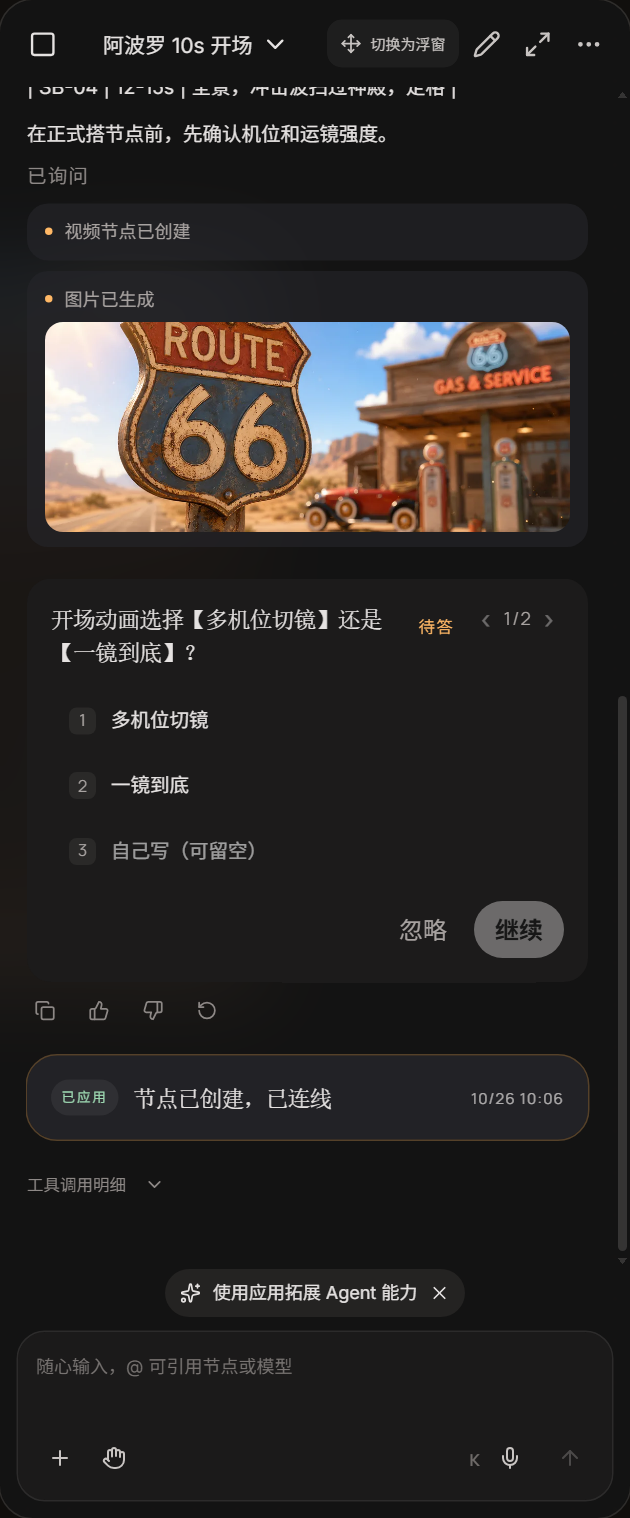
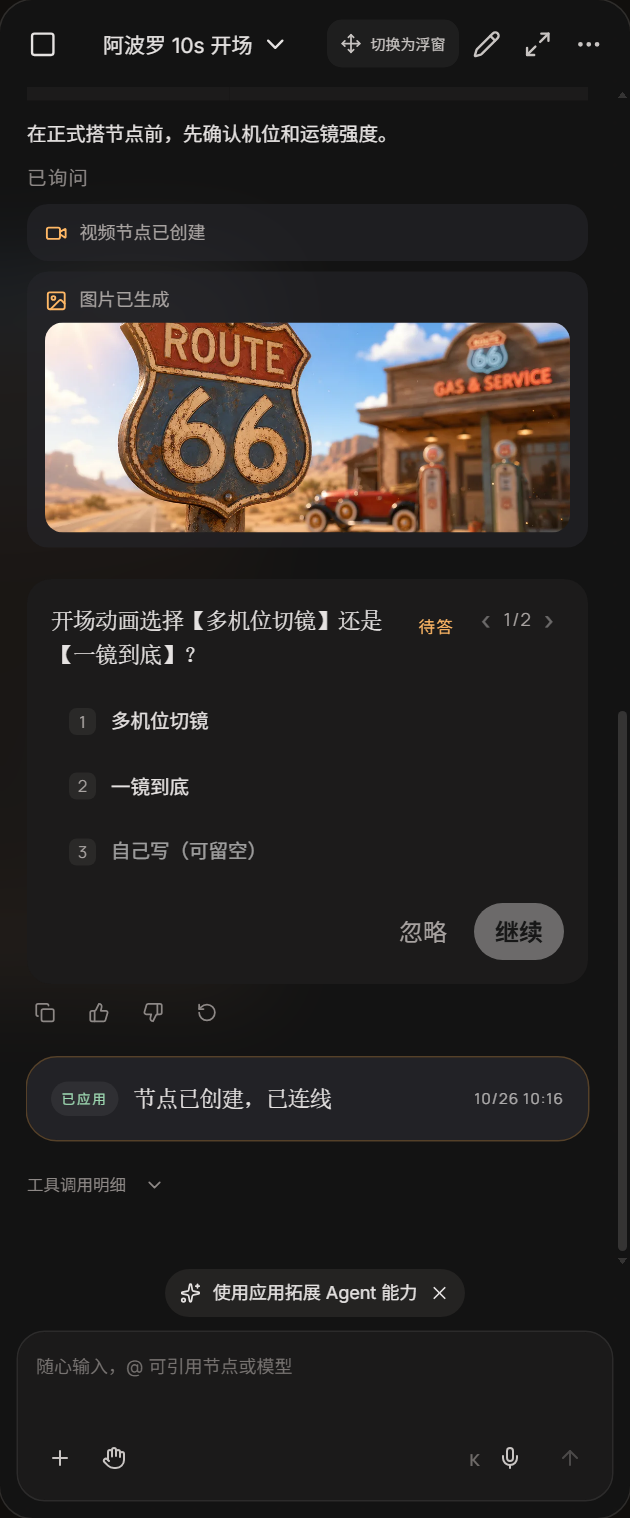
feat(canvas-agent): 参考图小卡、状态行图标与窄屏间距
- 用户消息里的参考图改成横向小卡：缩略图 + 名称（没有标题时显示「参考图 N」），不再是一行带 id 的文字
- 节点状态行加类型图标（图片/视频/文本），替换原来的小圆点
- 补窄屏断点：面板贴边、气泡放宽、缩略图压到 120px
- 提问卡按钮保持「继续」，不改

diff --git a/src/features/canvas-agent/ui/AgentFloatingPanel.tsx b/src/features/canvas-agent/ui/AgentFloatingPanel.tsx
@@ -490,35 +490,48 @@ function UserMessageBody({ content }: { content: string }) {
     mentionModelCandidates(snapshot.availableModels).map((item) => [item.id, item.label]),
   );
   const pieces = historyPieces(content);
-  if (!pieces.some((piece) => piece.type !== 'text')) return <>{content}</>;
+  const nodePieces = pieces.filter((piece) => piece.type === 'node');
+  if (!nodePieces.length) return <>{content}</>;
+  const inlinePieces = pieces.filter((piece) => piece.type !== 'node');
+  const refLabel = (piece: { id: string }, index: number) => {
+    const node = nodes.get(piece.id);
+    if (!node) return piece.id;
+    const attr = node as unknown as { title?: unknown; name?: unknown };
+    const named = String(attr.title || attr.name || '').trim();
+    if (named) return named.slice(0, 32);
+    if (node.type === 'image') return `参考图 ${index + 1}`;
+    if (node.type === 'video') return `视频 ${index + 1}`;
+    return `节点 ${index + 1}`;
+  };
   return (
-    <>
-      {pieces.map((piece, index) => {
-        if (piece.type === 'text') return <span key={index}>{piece.text}</span>;
-        const named = piece.type === 'node' && nodes.has(piece.id) ? mentionLook(nodes.get(piece.id)!) : null;
-        const label = named?.label
-          || (piece.type === 'model' ? (models.get(piece.id) || piece.id) : piece.id);
-        const src = named?.media === 'image' ? (named.thumb || named.preview || '') : '';
-        return (
-          <span key={index} className="canvas-agent-skill-chip canvas-agent-mention-pill">
-            {src ? (
-              <img
-                className="canvas-agent-mention-pill-thumb"
-                alt=""
-                src={src}
-                onError={(event) => {
-                  const image = event.currentTarget;
-                  if (image.dataset.fallback || !named?.preview) return;
-                  image.dataset.fallback = '1';
-                  image.src = named.preview;
-                }}
-              />
-            ) : null}
-            <span className="canvas-agent-mention-pill-label">{label}</span>
-          </span>
-        );
-      })}
-    </>
+    <span className="canvas-agent-user-body">
+      <span className="canvas-agent-user-refs">
+        {nodePieces.map((piece, index) => {
+          const node = nodes.get(piece.id);
+          const named = node ? mentionLook(node) : null;
+          const src = named?.media === 'image' ? (named.thumb || named.preview || '') : '';
+          return (
+            <span className="canvas-agent-user-ref" key={`${piece.id}-${index}`}>
+              {src ? <img className="canvas-agent-user-ref-thumb" src={src} alt="" /> : null}
+              <span className="canvas-agent-user-ref-label">{refLabel(piece, index)}</span>
+            </span>
+          );
+        })}
+      </span>
+      <span className="canvas-agent-user-text">
+        {inlinePieces.map((piece, index) => (
+          piece.type === 'text' ? (
+            <span key={index}>{piece.text}</span>
+          ) : (
+            <span key={index} className="canvas-agent-skill-chip canvas-agent-mention-pill">
+              <span className="canvas-agent-mention-pill-label">
+                {models.get(piece.id) || piece.id}
+              </span>
+            </span>
+          )
+        ))}
+      </span>
+    </span>
   );
 }
 

diff --git a/src/features/canvas-agent/ui/TurnLabels.tsx b/src/features/canvas-agent/ui/TurnLabels.tsx
@@ -1,4 +1,5 @@
 import { useEffect, useState, type ReactNode } from 'react';
+import { FileText, Image as ImageIcon, Video } from 'lucide-react';
 import { getCanvasSnapshot } from '../core/canvasFacade';
 import {
   isSavedTextNode,
@@ -18,19 +19,32 @@ export function ThinkingFold({ text, children }: { text: string; children: React
   );
 }
 
+type MediaKind = 'image' | 'video' | 'text';
+
+function MediaKindIcon({ kind }: { kind: MediaKind }) {
+  if (kind === 'video') return <Video aria-hidden="true" />;
+  if (kind === 'text') return <FileText aria-hidden="true" />;
+  return <ImageIcon aria-hidden="true" />;
+}
+
 export function MediaLabelView({
   label,
   preview,
   error,
+  kind = 'image',
 }: {
   label: string;
   preview?: string;
   error?: string;
+  kind?: MediaKind;
 }) {
   const video = Boolean(preview && /\.(mp4|webm|mov|m4v)(\?|$)/i.test(preview));
   return (
     <div className="canvas-agent-turn-label" data-collapsed="false">
-      <p>{label}</p>
+      <p>
+        <span className="canvas-agent-turn-icon"><MediaKindIcon kind={kind} /></span>
+        {label}
+      </p>
       {preview && video ? <video className="canvas-agent-turn-thumb" src={preview} muted /> : null}
       {preview && !video ? <img className="canvas-agent-turn-thumb" src={preview} alt="" /> : null}
       {error ? <p className="canvas-agent-turn-error">{error}</p> : null}
@@ -59,7 +73,7 @@ export function EffectLabels({ nodes }: { nodes: EffectedNode[] }) {
     <>
       {nodes.map((item) => {
         if (isSavedTextNode(item.nodeType)) {
-          return <MediaLabelView key={item.id} label="创作文本已保存" />;
+          return <MediaLabelView key={item.id} label="创作文本已保存" kind="text" />;
         }
         const node = snapshot.nodes.find((entry) => entry.id === item.id);
         const state = mediaRunState(node);
@@ -67,12 +81,16 @@ export function EffectLabels({ nodes }: { nodes: EffectedNode[] }) {
         const error = state === 'failed' && raw && typeof raw === 'object'
           ? String((raw as { message?: unknown }).message || '')
           : '';
+        const kind: MediaKind = item.nodeType === 'video'
+          ? 'video'
+          : item.nodeType === 'text' || item.nodeType === 'prompt' ? 'text' : 'image';
         return (
           <MediaLabelView
             key={item.id}
             label={mediaStatusLabel(item.nodeType, state)}
             preview={state === 'generated' ? mediaOutputUrls(node)[0] : ''}
             error={error}
+            kind={kind}
           />
         );
       })}

diff --git a/src/features/canvas-agent/ui/canvas-agent.css b/src/features/canvas-agent/ui/canvas-agent.css
@@ -1675,13 +1675,18 @@ details.canvas-agent-turn-label > .canvas-agent-md {
   line-height: 1.5;
 }
 
-.canvas-agent-turn-label > p::before {
-  content: '';
-  width: 5px;
-  height: 5px;
-  border-radius: 50%;
-  background: var(--strong, #ffb866);
+.canvas-agent-turn-icon {
+  display: inline-grid;
+  place-items: center;
+  width: 15px;
+  height: 15px;
+  color: var(--strong, #ffb866);
   flex: none;
+}
+
+.canvas-agent-turn-icon svg {
+  width: 15px;
+  height: 15px;
 }
 
 .canvas-agent-turn-thumb {
@@ -1702,4 +1707,73 @@ details.canvas-agent-turn-label > .canvas-agent-md {
   color: #8d8886;
   font-size: 11px;
   letter-spacing: 0.06em;
+}
+/* —— 用户消息里的参考图：横向小卡 —— */
+.canvas-agent-user-body {
+  display: grid;
+  gap: 8px;
+  justify-items: end;
+  min-width: 0;
+}
+
+.canvas-agent-user-refs {
+  display: flex;
+  flex-wrap: wrap;
+  gap: 6px;
+  justify-content: flex-end;
+}
+
+.canvas-agent-user-ref {
+  display: inline-flex;
+  align-items: center;
+  gap: 7px;
+  padding: 4px 9px 4px 4px;
+  border-radius: 12px;
+  background: #131313;
+}
+
+.canvas-agent-user-ref-thumb {
+  width: 30px;
+  height: 30px;
+  border-radius: 8px;
+  object-fit: cover;
+  background: #2a2928;
+}
+
+.canvas-agent-user-ref-label {
+  max-width: 150px;
+  overflow: hidden;
+  color: #c8c4c2;
+  font-size: 11.5px;
+  line-height: 1.4;
+  text-overflow: ellipsis;
+  white-space: nowrap;
+}
+
+.canvas-agent-user-text {
+  white-space: pre-wrap;
+}
+
+@media (max-width: 640px) {
+  .canvas-agent-panel {
+    top: 64px;
+    right: 8px;
+    bottom: 8px;
+    width: calc(100vw - 16px);
+    min-width: 0;
+    border-radius: 18px;
+  }
+
+  .canvas-agent-message p {
+    max-width: 100%;
+  }
+
+  .canvas-agent-avatar {
+    width: 20px;
+    height: 20px;
+  }
+
+  .canvas-agent-turn-thumb {
+    max-height: 120px;
+  }
 }
